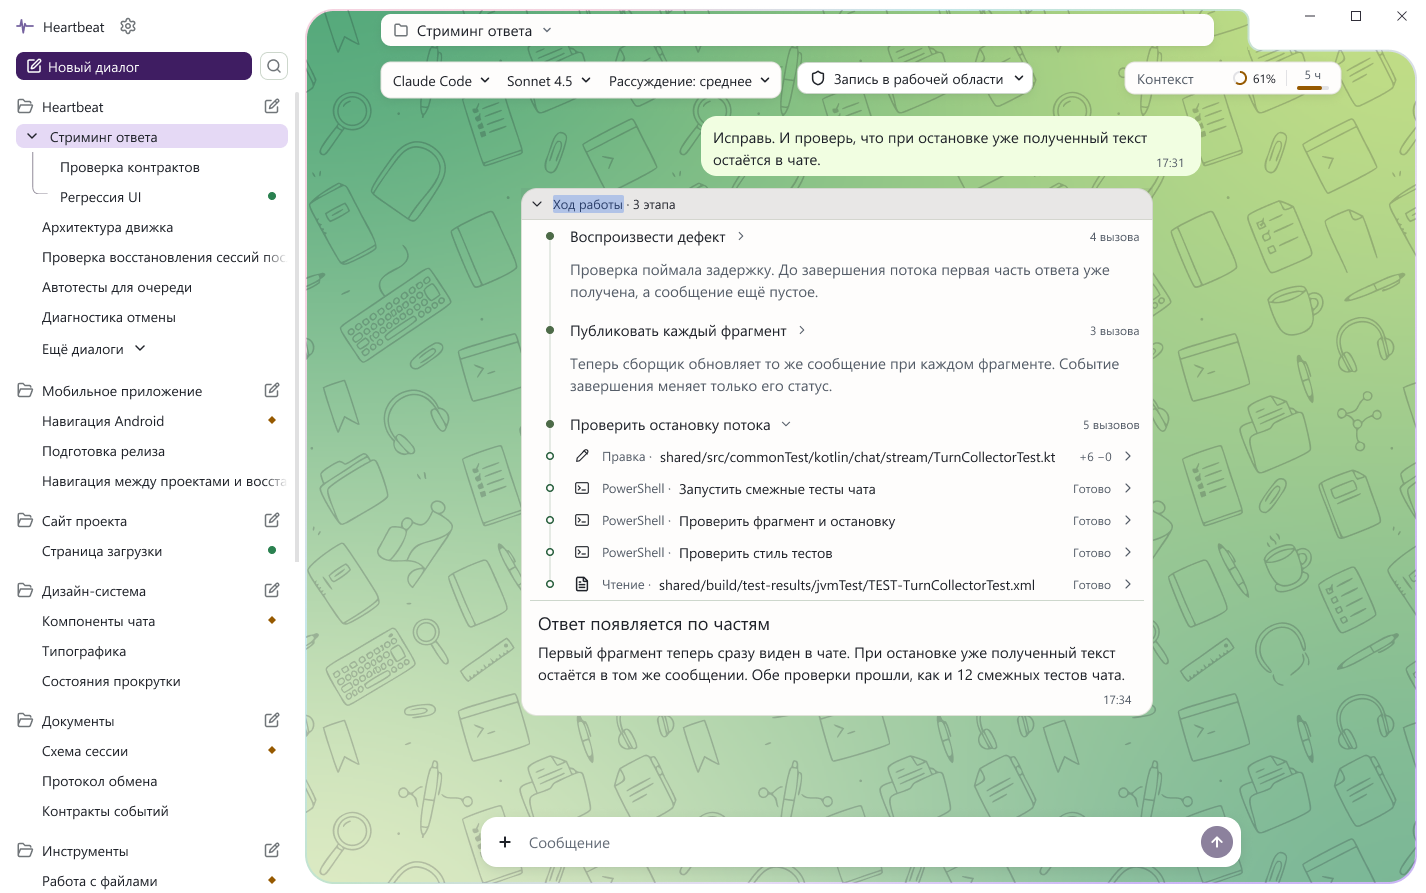
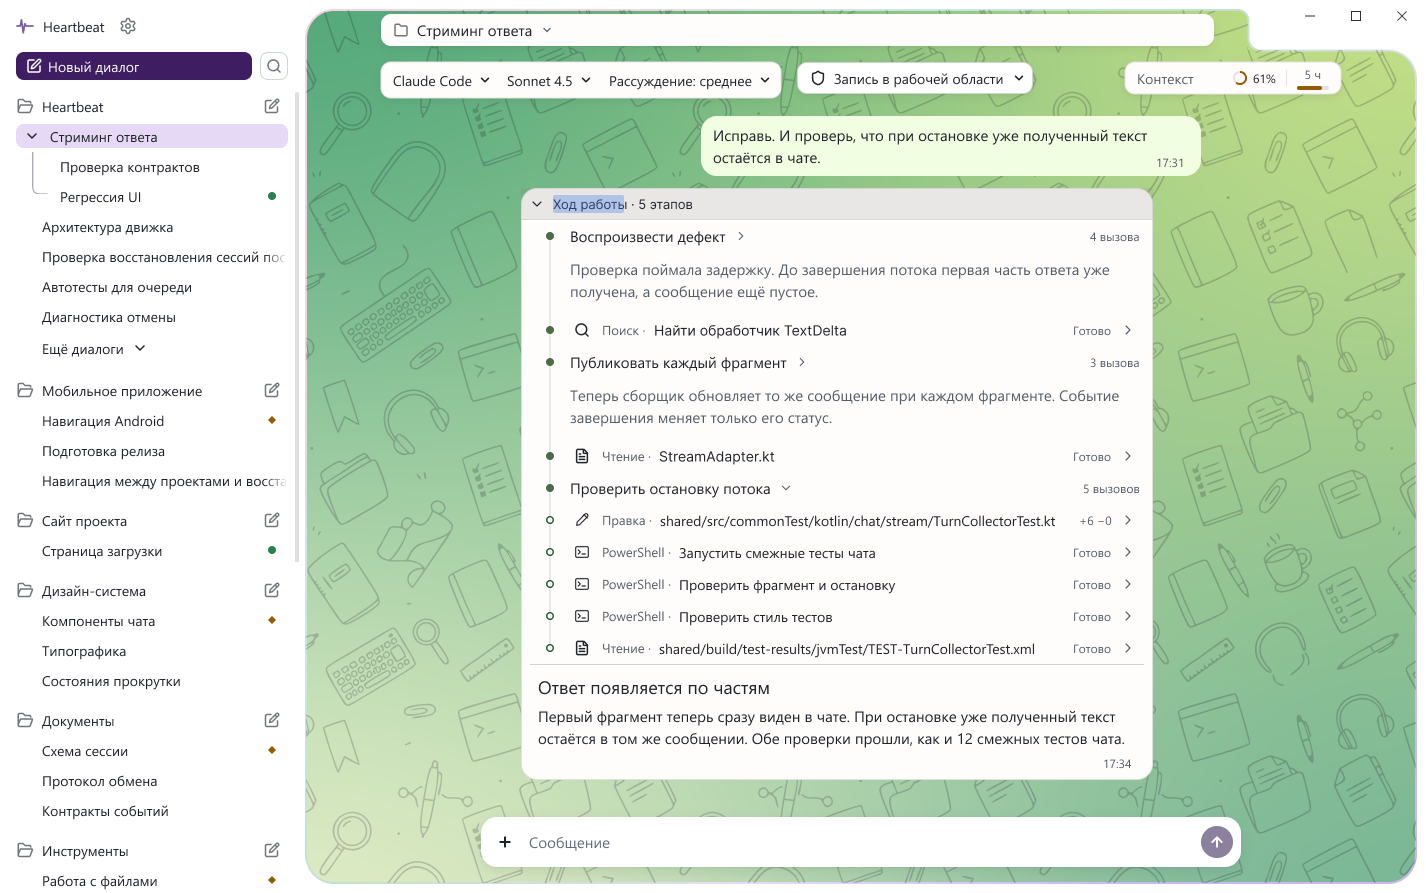
Show single-tool stages within the full Desktop history

diff --git a/CHECKPOINT.md b/CHECKPOINT.md
@@ -10,6 +10,8 @@
 
 ### Последняя сверка с Heartbeat Desktop
 
+В раскрытом завершённом ответе пять этапов. Между группами на той же оси стоят два одиночных вызова: поиск обработчика TextDelta и чтение StreamAdapter.kt. У каждого закрашенная точка и собственное раскрытие результата. [История ответа](https://www.figma.com/design/ivLmgulIBIkMzOw8sgvKxj/Aurora-DS?node-id=466-151317) · [Выделение заголовка](https://www.figma.com/design/ivLmgulIBIkMzOw8sgvKxj/Aurora-DS?node-id=493-119687).
+
 В работающем приложении проверены бейдж нижнего угла и ПКМ у обеих ролей. У пользователя шеврон слева, у агента справа. У завершённого ответа открывается «Копировать», у отправленной реплики — также «Редактировать». В Figma есть [подсказка ошибки доставки](https://www.figma.com/design/ivLmgulIBIkMzOw8sgvKxj/Aurora-DS?node-id=493-109545), [причина прерывания](https://www.figma.com/design/ivLmgulIBIkMzOw8sgvKxj/Aurora-DS?node-id=493-121828) и [меню продолжения](https://www.figma.com/design/ivLmgulIBIkMzOw8sgvKxj/Aurora-DS?node-id=493-114635).
 
 На листе показаны текущая цель без вызовов, единственный инструмент на линии, следующий итог без вызовов и прямой финальный ответ. У активной цели нет шеврона и переключения по клику. [Текущий этап в длинной истории](https://www.figma.com/design/ivLmgulIBIkMzOw8sgvKxj/Aurora-DS?node-id=466-151046).

diff --git a/plans/aurora-chat-longread.md b/plans/aurora-chat-longread.md
@@ -257,6 +257,8 @@
 
 ### Обзор рабочей области Desktop
 
+В кадре раскрытой истории второй ответ содержит три группы и два самостоятельных этапа с одним инструментом. После воспроизведения дефекта идёт поиск обработчика TextDelta, после публикации фрагментов — чтение StreamAdapter.kt. Каждый вызов открывается на месте. Счётчик в обычной и выделенной шапке показывает «5 этапов». [Раскрытая история второго ответа](https://www.figma.com/design/ivLmgulIBIkMzOw8sgvKxj/Aurora-DS?node-id=466-151317).
+
 Пять кадров в обзоре показывают ход агента в контексте диалога. Под экраном с параллельными вызовами расположена история завершённого ответа, под прерыванием — продолжение. Пояснения рядом с экранами используют те же компоненты Aurora, что и прототип. [Обзор](https://www.figma.com/design/ivLmgulIBIkMzOw8sgvKxj/Aurora-DS?node-id=496-128871) · [Снимок](../previews/desktop-agent-turns/desktop-overview.png).
 
 | Сценарий | Где посмотреть |
